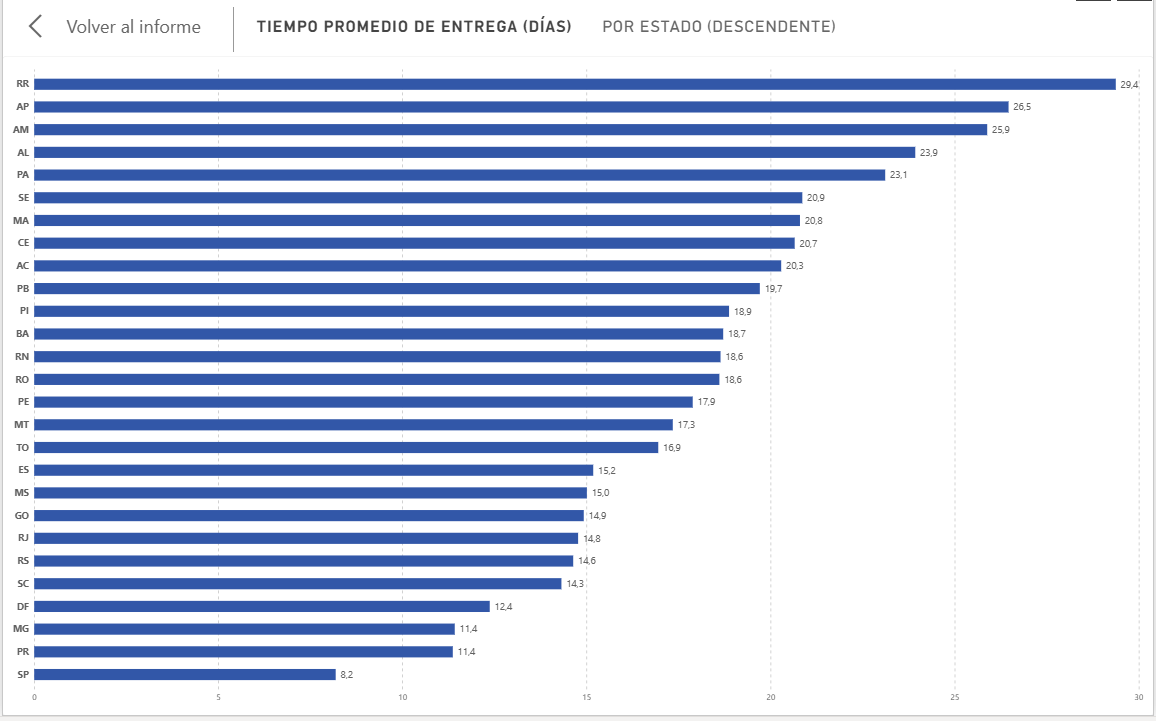
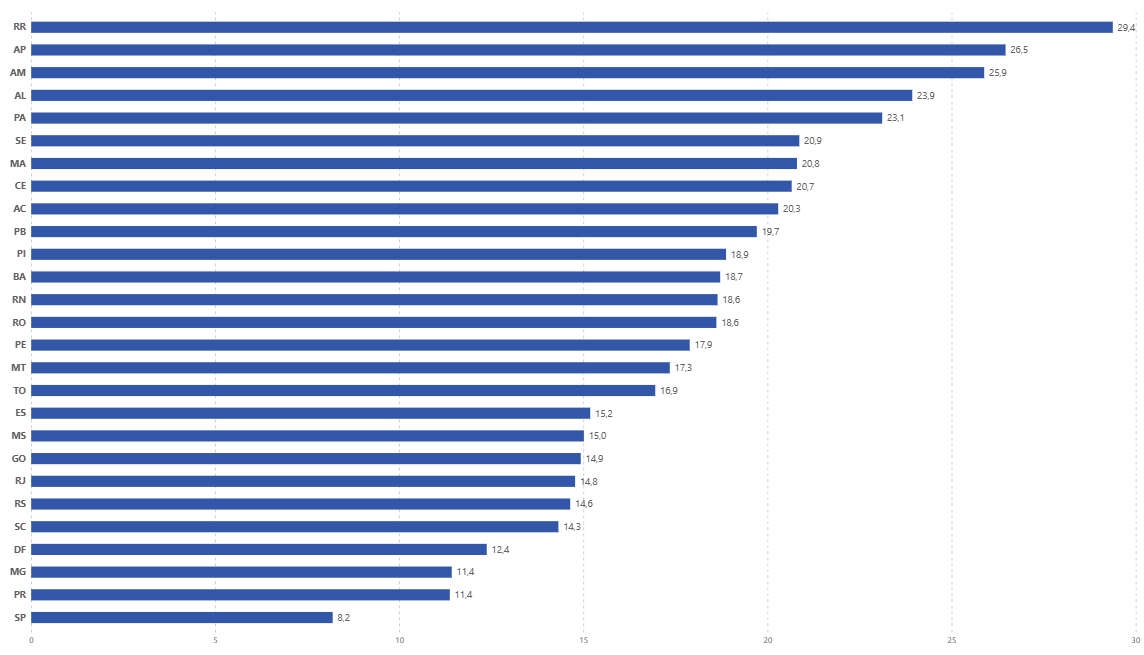
correcciones ortográficas

diff --git a/docs/dashboard_charts.md b/docs/dashboard_charts.md
@@ -15,7 +15,7 @@ Este documento explica el funcionamiento de las gráficas que se usaron en el da
 
 ---
 ## Contexto de Reporte
-Todas las gráficas reaccionan a un filtro global de período, en este caso el período analizado está entre enero del 2017 y agosto del 2018 debido a que hay muy poca información datada de antes y después del período filtrado, por ende para evitar tener información insuficiente y las gráficas dañen sus líneas de tendencia por falta de datos decidí reducir el período de análisis.
+Todas las gráficas reaccionan a un filtro global de período, en este caso el período analizado está entre enero del 2017 y agosto del 2018 debido a que hay muy poca información datada de antes y después del período filtrado, por ende para evitar tener información insuficiente y las gráficas o sus líneas de tendencia se distorsionen por falta de datos decidí reducir el período de análisis.
 Detalle en [`dax_documentation.md`](dax_documentation.md#contexto-de-reporte).
 
 
@@ -108,6 +108,6 @@ Detalle en [`dax_documentation.md`](dax_documentation.md#contexto-de-reporte).
 
 **Qué muestra:** Qué porcentaje de los pedidos se realizan con qué medio de pago.
 
-**Cómo leerlo:** A la derecha se ve la leyenda con su respectivo color que representa un tipo de pago, en el círculo, se ve un área rellena del color que representa a un tipo de pago, a simple vista se puede ver cuál es el área más rellena, pero, para ver la cifra exacta, el área apunta hacia afuera mostrando un porcentaje, que indica qué porcentaje de las compras se realiza con ese medio de pago. 
+**Cómo leerlo:** A la derecha se ve la leyenda con su respectivo color que representa un tipo de pago, en el círculo, se ve un área rellena del color que representa a un tipo de pago, a simple vista se puede ver cuál es el área más rellena, pero, para ver la cifra exacta, el área apunta hacia afuera mostrando un porcentaje, que indica qué porcentaje de los pedidos que se realizan con ese medio de pago. 
 
-**Limitaciones:** Para evitar problemas de granularidad al crear la tabla analítica, sólo se toma en cuenta un medio de pago por pedido, con el que pagó la primera cuota (en caso de que haya tenido varias) y por ende, si alguien usó varios métodos de pago sólo se tendrá cuenta uno en este análisis.
+**Limitaciones:** Para evitar problemas de granularidad al crear la tabla analítica, sólo se toma en cuenta un medio de pago por pedido, que sería del primer pago registrado (en caso de que haya tenido varios) y por ende, si alguien utilizó varios métodos de pago sólo se tendrá en cuenta uno en este análisis.

diff --git a/README.md b/README.md
@@ -117,7 +117,7 @@ Dashboard en Power BI construido sobre la tabla analítica (`brazilian_ecommerce
 ### Cómo abrirlo
 
 1. Instala [Power BI Desktop](https://powerbi.microsoft.com/desktop) (gratuito, solo Windows).
-2. Abre `powerbi/dashboard_olist.pbix`. Los datos vienen incluidos, no necesitas MySQL excepto si quieres usar 'Actualizar'
+2. Abre `powerbi/dashboard_olist.pbix`. Los datos vienen incluidos, no necesitas MySQL excepto si quieres usar 'Actualizar'.
 
 
 ### Documentación
@@ -126,6 +126,7 @@ Dashboard en Power BI construido sobre la tabla analítica (`brazilian_ecommerce
 |---|---|
 | [`docs/data_model.md`](docs/data_model.md) | Tablas, llaves y relaciones del dataset |
 | [`docs/dax_documentation.md`](docs/dax_documentation.md) | Medidas y columnas DAX, con su lógica |
+| [`docs/dashboard_charts.md`](docs/dashboard_charts.md) | Explicación detallada de las gráficas usadas |
 
 ---
 ## Próximas mejoras
